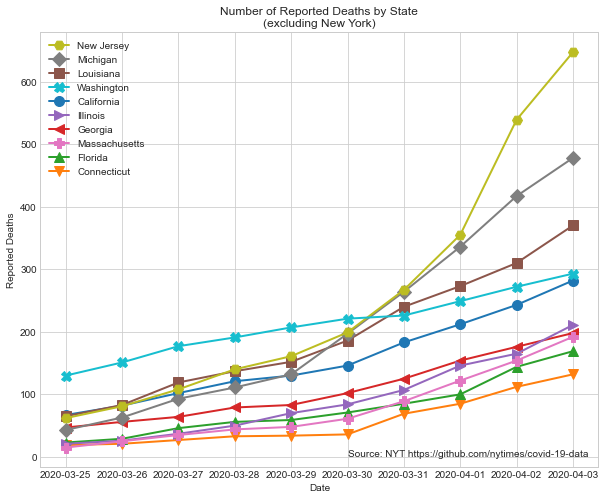
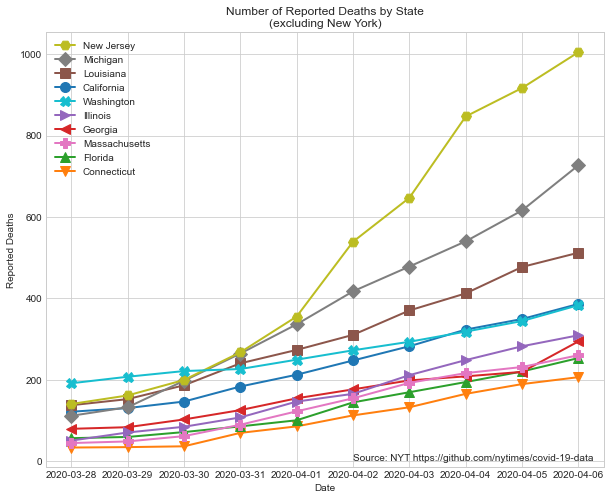
update plots for 4/6

diff --git a/README.md b/README.md
@@ -4,25 +4,25 @@ Updated with 4/3 data
 
 ## Counties with the most deaths
 
-This plot shows the number of reported Covid-19 deaths for the ten counties with the highest counts, excluding New York City and King County, WA. NYC has 1,800+ deaths, while King County has 180+. 
+This plot shows the number of reported Covid-19 deaths for the ten counties with the highest counts, excluding New York City and King County, WA. NYC has 2,700+ deaths, while King County has 220+. 
 
 ![county_deaths](plots/county_deaths.png)
 
 ## States with the most deaths
 
-This plot shows the number of reported Covid-19 deaths for the ten states with the highest counts, excluding New York, which has 2,900+ deaths. 
+This plot shows the number of reported Covid-19 deaths for the ten states with the highest counts, excluding New York, which has 4,700+ deaths. 
 
 ![state_deaths](plots/state_deaths.png)
 
 ## Counties with the most cases
 
-This plot shows the number of reported Covid-19 cases for the ten counties with the highest counts, excluding New York City, which has 57,000+ cases. 
+This plot shows the number of reported Covid-19 cases for the ten counties with the highest counts, excluding New York City, which has 68,000+ cases. 
 
 ![county_cases](plots/county_cases.png)
 
 ## States with the most cases
 
-This plot shows the number of reported Covid-19 cases for the ten states with the highest counts, excluding New York, which has 102,000+ cases. 
+This plot shows the number of reported Covid-19 cases for the ten states with the highest counts, excluding New York, which has 130,000+ cases. 
 
 ![state_cases](plots/state_cases.png)
 
